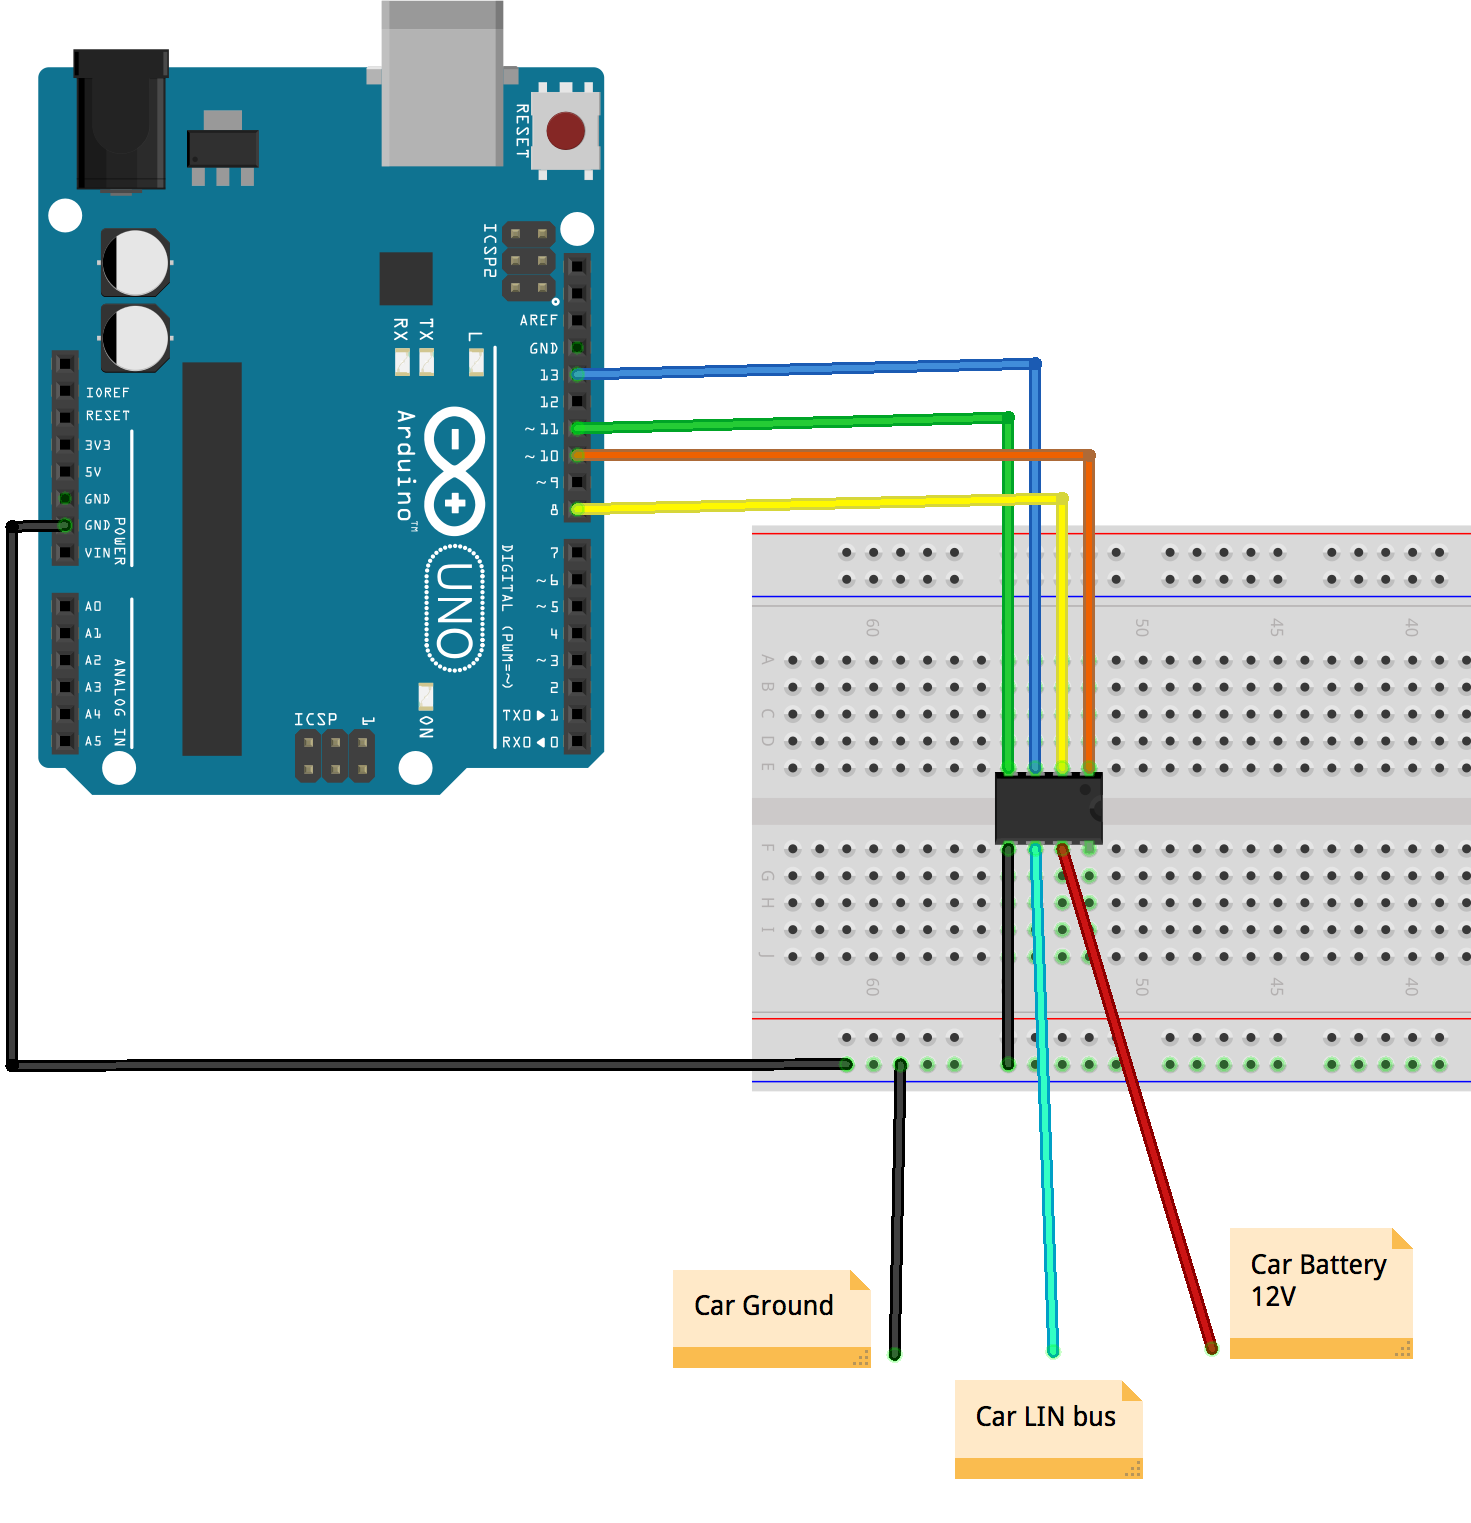
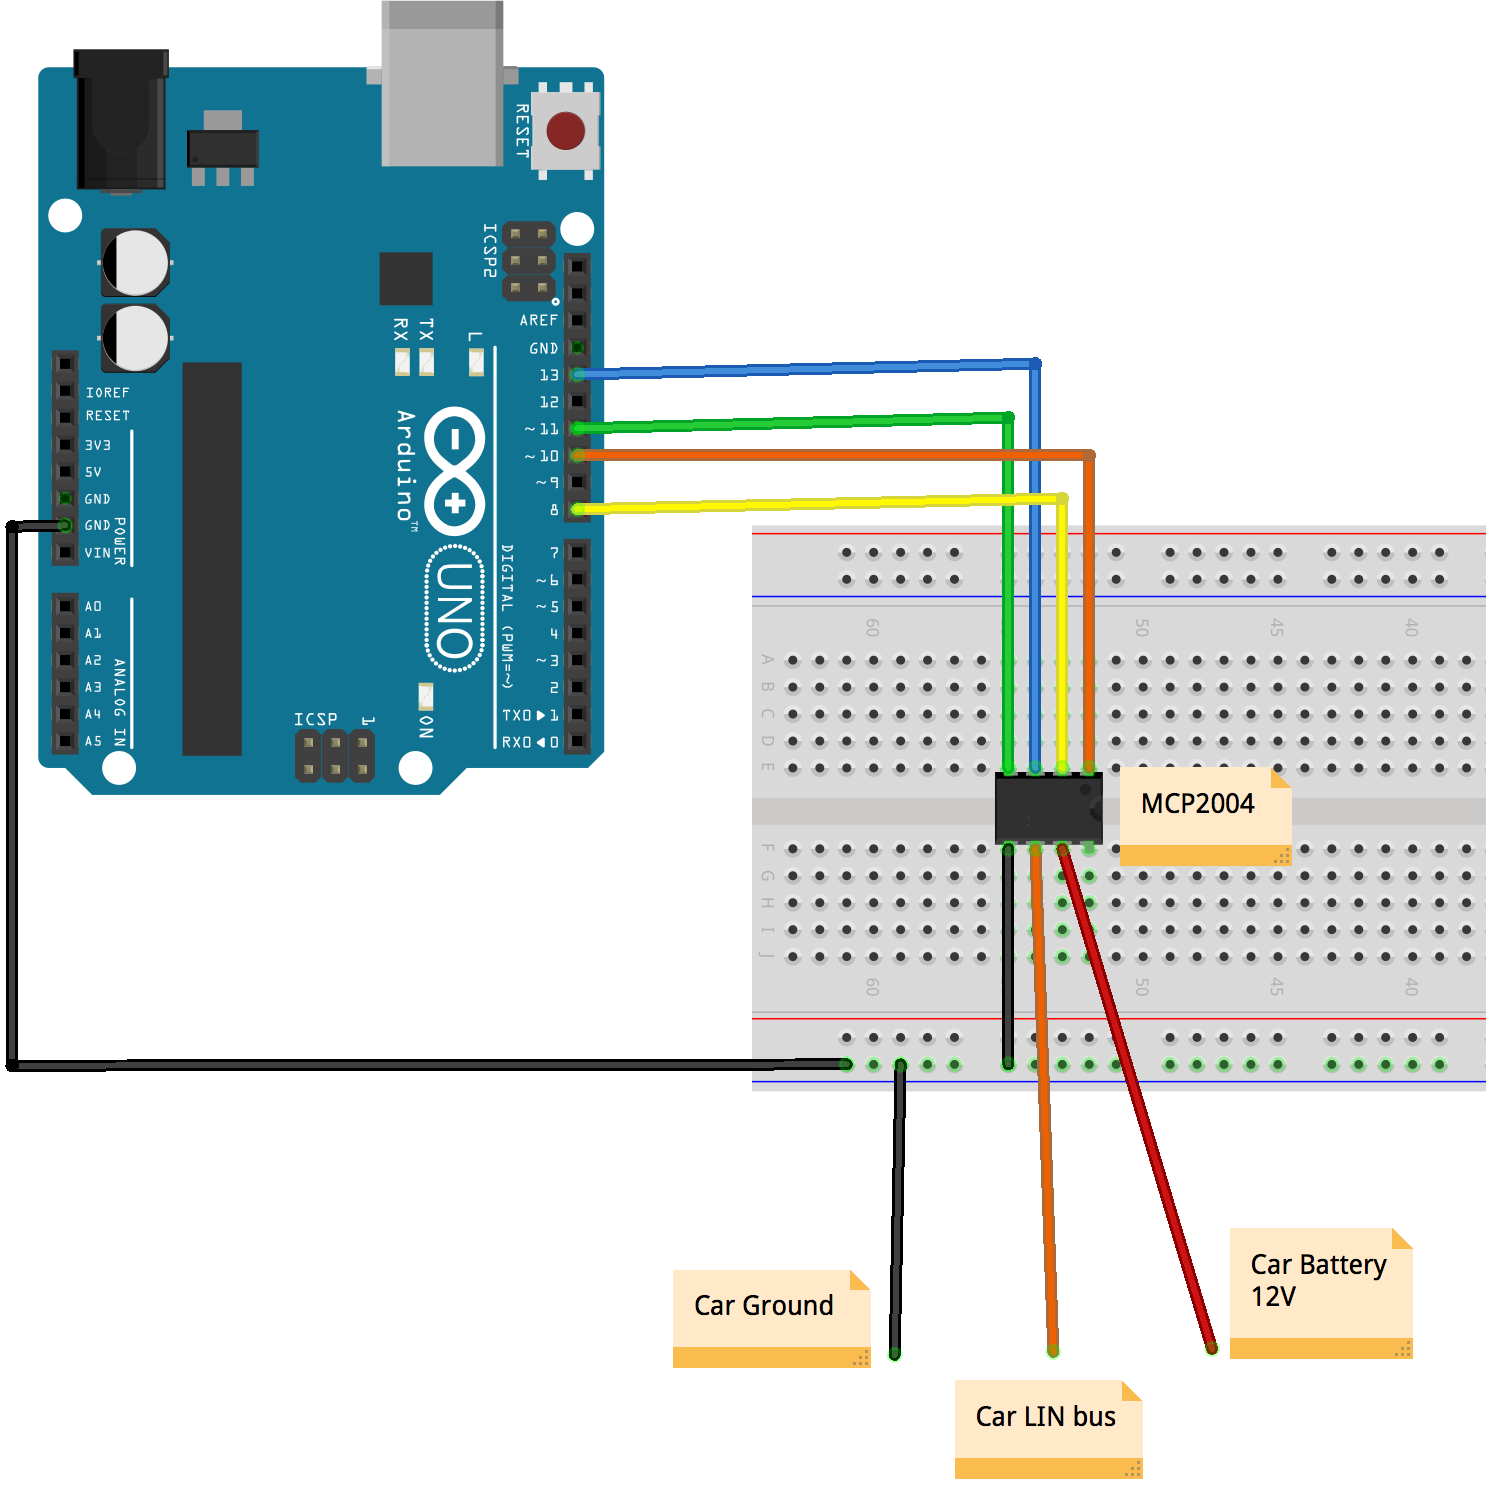
Add more details about MCP2004

diff --git a/README.md b/README.md
@@ -6,6 +6,8 @@ Tested with **Volvo V50 2006**.
 
 ## Scheme
 
+Arduino UNO + MCP2004 LIN transceiver.
+
 ![](doc/scheme_bb.png)
 
 ## Connector
@@ -28,6 +30,10 @@ Synchronisation field. The synchronisation field helps slave nodes to synchronis
 2. **Identification field.** Contains information about the contents of the message. All nodes can read and respond to a message, yet only one node has the right to send a response to the message. Which node has the right to answer the message (send response data) is evident from the identifier. 
 3. **Data information.** The data sent can be two to eight bytes long. The data information is sent with the least significant bit first. 
 4. **Checksum.** The checksum is a way for slave notes to check whether the received message has been transferred correctly, or if any disturbance can have occurred during the transmission which has corrupted the data. If an error has occurred in a message during transmission from the master node to the slave node, i.e. the checksum calculated by the slave node does not correspond, the slave node will erase the message and await the next message sent from the master node. 
+
+## References
+
+* [MCP2004 documentation](http://www.microchip.com/wwwproducts/en/MCP2004)
 
 ## Credits
 
